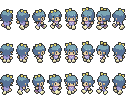
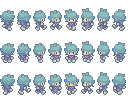
Figur Blau: umgefärbte Sprout-Lands-Figur (Variante 2)

diff --git a/src/grafik/LIZENZ.md b/src/grafik/LIZENZ.md
@@ -18,8 +18,8 @@ Lizenzbedingungen (Zusammenfassung des `read_me.txt` der Pakete):
 Die Spielfigur (`figur.png`) stammt aus dem **Sprout Lands Sorry Pack** (Ordner „Tests“), ebenfalls von Cup Nooble,
 mit denselben Bedingungen (nicht kommerziell, Paket nicht weitergeben).
 
-Weitere Spielfiguren (Übungsumbau, 2026-11-13): `figur_blau.png` ist dieselbe Figur, von der Lehrkraft mit einem Bildeditor
-umgefärbt (Vorlage `assets/Female character.png`, auf 16 × 32 je Bild zurückgerechnet). `figur_katze.png` ist der „Basic Charakter“
+Weitere Spielfiguren (Übungsumbau, 2026-11-13): `figur_blau.png` ist dieselbe Figur, umgefärbt (Haare blau, Shirt lila,
+nur Farben der Sprout-Lands-Palette; Jazz, Variante 2). `figur_katze.png` ist der „Basic Charakter“
 aus Sprout Lands (Sprites), umgebaut auf den Aufbau von `figur.png`.
 
 Deshalb liegen hier nur einzelne, ausgeschnittene Bilder, die die App wirklich benutzt

diff --git a/docs/umbau/STATUS.md b/docs/umbau/STATUS.md
@@ -138,6 +138,8 @@
   `aufPalette` in `scripts/grafik-holen.mjs`, nächste Farbe nach „redmean“). Dadurch sind grüner und blauer Schleim und die blaue Figur
   etwas gedämpfter (die Palette hat keine kräftigen Türkis- und Blautöne). Angesehen: alle 24 Bilder der blauen Figur, Schleime und
   Rübchen vorher/nachher, blaue Figur im Spiel (1024 × 768). `npm test` 138, lint, build ohne Fehler.
+  **Nachtrag 3 (Jazz):** „Blau“ ist jetzt Variante 2: die Sprout-Lands-Figur direkt umgefärbt (Haare blau, Shirt lila, Palettenfarben),
+  dadurch in allen Richtungen vollständig. Die Fassung aus `assets/Female character.png` (mit Schleife) ist nicht mehr in Gebrauch.
 
 ## Datenorte
 - **Datenbank Supabase** (Projekt `diwpqkxhmuetdpxxcoar`, Frankfurt): Klassen, Pseudonyme, Aufgaben, Pakete, Zuweisungen,
